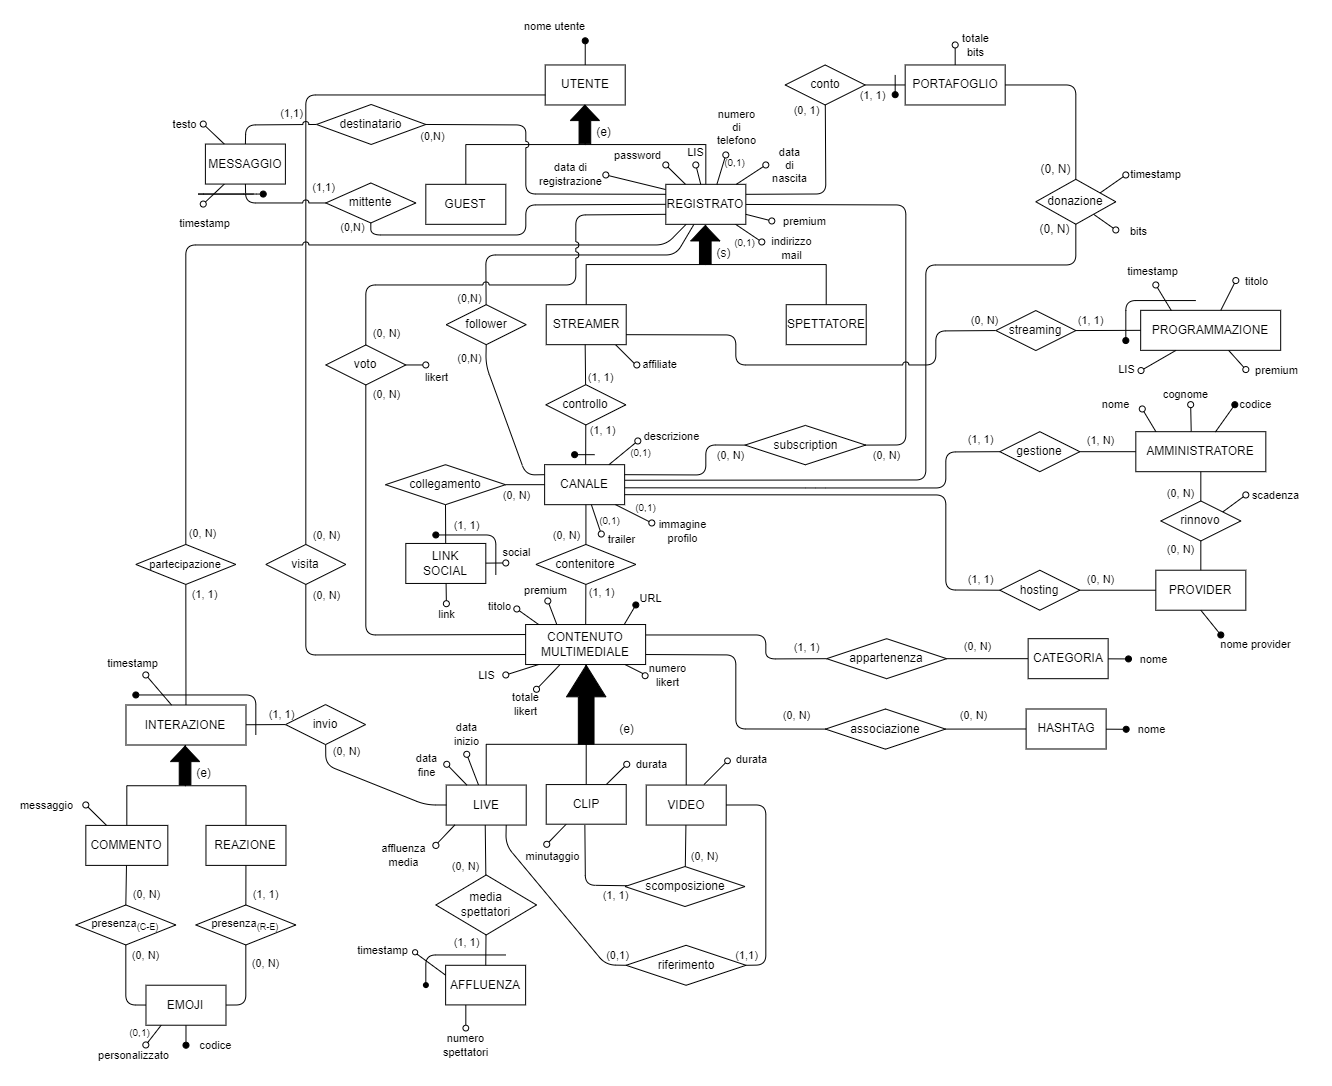
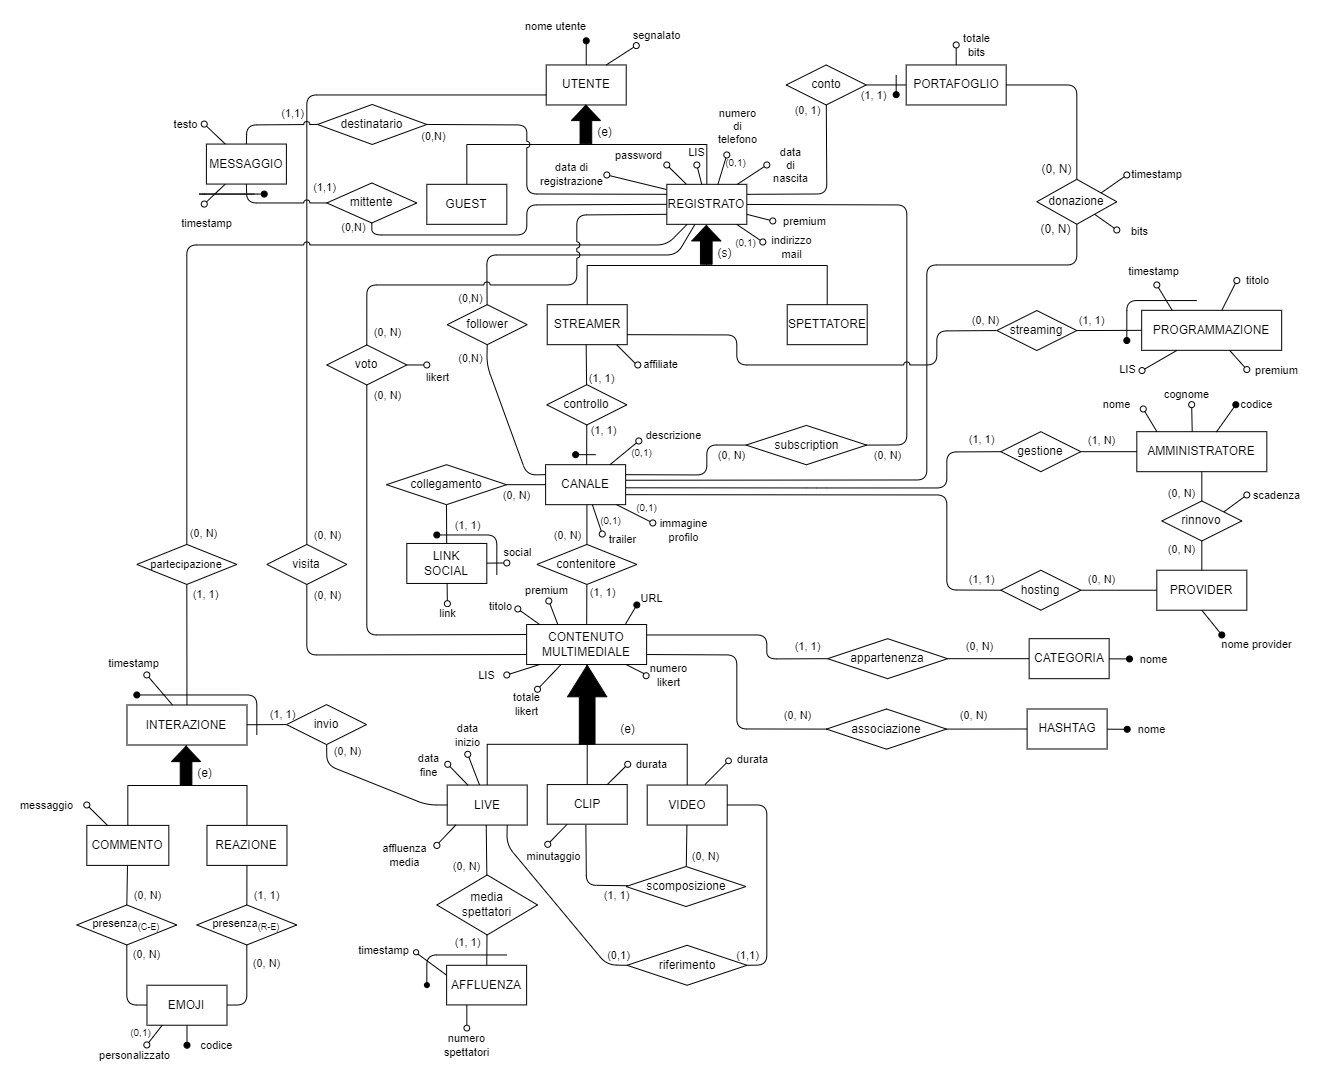
Aggiornato schemi ER + aggiornato dml pop e relativo file md

diff --git a/Progetto Esame - DBSperimentazioni A.A. 2023-2024/Markdown/4 DDL e DML.md b/Progetto Esame - DBSperimentazioni A.A. 2023-2024/Markdown/4 DDL e DML.md
@@ -7,91 +7,127 @@
 ## Sommario <!-- omit in toc -->
 
 - [3 DDL di creazione del database](#3-ddl-di-creazione-del-database)
-  - [3.1 Tabella "Utente" e "Registrato"](#31-tabella-utente-e-registrato)
+  - [3.1 Utente e Registrato](#31-utente-e-registrato)
   - [3.2 Amministratore](#32-amministratore)
   - [3.3 Rinnovo](#33-rinnovo)
   - [3.4 Programmazione](#34-programmazione)
   - [3.5 LinkSocial](#35-linksocial)
-  - [3.6 Abbonamento](#36-abbonamento)
+  - [3.6 Subscription](#36-subscription)
   - [3.7 Contenuto Multimediale](#37-contenuto-multimediale)
   - [3.8 Voto](#38-voto)
   - [3.9 Interazione](#39-interazione)
 - [4 DML di popolamento di tutte le tabelle del database](#4-dml-di-popolamento-di-tutte-le-tabelle-del-database)
+  - [4.1 Utenti registrati e streamer](#41-utenti-registrati-e-streamer)
+  - [4.2 Portafogli](#42-portafogli)
+  - [4.3 Amministratori, provider e rinnovi](#43-amministratori-provider-e-rinnovi)
+  - [4.4 Messaggi e interazioni](#44-messaggi-e-interazioni)
 - [5 DML di modifica](#5-dml-di-modifica)
 
 ## 3 DDL di creazione del database
-
+<!--
 > <qui inserite solo qualche commento su cosa avete fatto (es. spiegazione di vincoli complessi). Mettete il codice di creazione del database in un file a parte denominato VostriCognomi_DDL.sql (es. Rossi_DDL.sql)>
+-->
 
-### 3.1 Tabella "Utente" e "Registrato"
+### 3.1 Utente e Registrato
 
-La tabella "Utente" contiene solamente gli username di utenti sia guest e registrato, invece "Registrato" contiene tutte le informazioni degli utenti registrati nella piattaforma dove quelle degli utenti guest non sono necessarie.
+La tabella **_Utente_** contiene solamente gli username di tutti gli utenti sia guest che registrati e le eventuali segnalazioni agli utenti, invece **_Registrato_** contiene tutte e sole le informazioni degli utenti registrati nella piattaforma.
 
-Questa suddivisione fisica in due tabelle permette di evidenziare i permessi concessi agli utenti guest e registrati, tabella "Utente" gli é permesso visitare e osservare contenuti multimediali non-premium (una sorta di permesso di sola lettura in ambito OS), la tabella "Registrato" ha invece i permessi di scrittura di messaggi, di inviare likert, di diventare utenti premium, di abbonarsi ai singoli canali, etc... (simile al permesso di scrittura in OS).
+Questa suddivisione fisica in due tabelle permette di evidenziare i permessi concessi agli utenti guest e registrati:
 
-I check impostati a queste tabelle garantiscono che:
+- la tabella **_Utente_** possiede solamente il permesso di visitare e osservare contenuti multimediali non-premium (una sorta di permesso di sola lettura in ambito OS),
+- la tabella **_Registrato_** ha invece il permesso di scrivere messaggi, inviare likert, diventare utente premium, abbonarsi ai singoli canali, etc... (simile al permesso di scrittura in OS).
+
+I check imposti a queste tabelle garantiscono che:
 
 - l'etá minima di 13 anni come é richiesto dalla UE sia rispettata
-- l'email inserita dagli utenti registrati sia conforme al moderno formato delle e-mail 'username(+alias)@host.domain'.
-- la password per essere sufficientemente forte deve avere almeno 8 caratteri.
-- il numero di telefono deve rispettare diversi formati internazionali.
+- l'email inserita dagli utenti registrati sia conforme al moderno formato delle e-mail _'username(+alias)@host.domain'_
+- la password abbia almeno 8 caratteri, per essere sufficientemente forte
+- il numero di telefono rispetti diversi formati internazionali.
 
-Gli utenti guest, come abbiamo capito, avranno solo l'username per essere identificati, per distinguere un utente guest da quello registrato nella tabella "Utente", si nota dalla stringa che `e composto da un prefisso 'guest_' + \<integer\> (all'inizio pensavamo a una alternativa piú elegante e professionale come 'guest_' + UUID, ma risulta che bisogna attivare una estensione per il corretto funzionamento, alla fine abbiamo optato con la piú semplice SEQUENCE di interi).
+Gli utenti guest sono identificati solo dal nome utente e per distinguerli dagli utenti registrati, nella tabella **_Utente_** il loro nome utente sarà la stringa composta da un prefisso **_'guest_'_ + numero intero univoco** incrementato ogni volta mediante una SEQUENCE di interi dedicata ai guest.
 
 ### 3.2 Amministratore
 
-Il vincolo UNIQUE del set "Nome" e "Cognome" é originato semplicemente dall'evitare duplicati logici e garantire l'integrità dei dati e facilitare le operazioni di ricerca e gestione.
+Il vincolo UNIQUE del set **(_"Nome"_, _"Cognome"_)** é imposto semplicemente per evitare duplicati logici, garantire l'integrità dei dati e facilitare le operazioni di ricerca e gestione.
 
 ### 3.3 Rinnovo
 
-Dato che abbiamo impostato PRIMARY KEY al set ("Amministratore", "Provider"), ci impossibilita ad avere uno storico dei rinnovi passati, ma conterrá solamente gli ultimi rinnovi di quel specifico PRIMARY KEY set.
+Dato che abbiamo impostato come PRIMARY KEY il set **(_"Amministratore"_, _"Provider"_)**, la tabella "Rinnovo" non conterrà lo storico dei rinnovi passati, ma solamente gli ultimi rinnovi di quello specifico set _("Amministratore", "Provider")_.
 
-Se l'amministratore vuole continuare con lo stesso provider, verrá aggiornata solo la data di scadenza, altrimenti se vuole cambiare provider, verrá aggiornato il set PRIMARY KEY oltre alla data di scadenza.
+Se l'amministratore vuole continuare con lo stesso provider verrá aggiornata solo la data di scadenza, altrimenti in caso voglia cambiare provider verrá aggiornato il set PRIMARY KEY e la data di scadenza.
 
 ### 3.4 Programmazione
 
-"Programmazione" é una tabella 'parallela' alla tabella "ContenutoMultimediale" dove hanno molti attributi in comune ma vengono utilizzati in contesti diversi.
+**_Programmazione_** é una tabella "parallela" alla tabella **_ContenutoMultimediale_**, dato che hanno molti attributi in comune che vengono utilizzati però in contesti diversi.
 
 ### 3.5 LinkSocial
 
-All'attributo "LinkProfilo" della tabella "LinkSocial" ho effettuato un CHECK regex simile ai CHECK presenti nella tabella "Registrato", ma per gli indirizzi URL.
+Per l'attributo **_"LinkProfilo"_** della tabella **_LinkSocial_** abbiamo impostato un CHECK regex simile ai CHECK presenti nella tabella **_Registrato_**, ma questa volta relativo agli indirizzi URL.
 
-### 3.6 Abbonamento
+### 3.6 Subscription
 
-Qui presente il set UNIQUE proponendo le stesse meccaniche della tabella "Rinnovo".
+Il vincolo PRIMARY KEY presente in questa tabella segue gli stessi principi della PRIMARY KEY della tabella **_Rinnovo_**.
 
 ### 3.7 Contenuto Multimediale
 
-Questa é l'altra tabella 'parallela' con "Programmazione".
+Come precedentemente scritto, questa tabella è "parallela" alla tabella **_Programmazione_**.
 
-Anche qui, l'attributo "IdURL" ha un CHECK similare con quello di "LinkSocial" per validare tramite regex l'indirizzo URL, ma per motivi di semplicitá nel debug visto il contesto dell'esame universitario e il permesso del prof utilizzeremo il seguente formato piú: url1, url2, url3, ... (in generale 'url' + \<integer\> generata da una differente sequence dedicata proprio per gli url).
+Anche qui, l'attributo **_"IdURL"_** ha un CHECK simile a quello del sopracitato attributo **_"LinkSocial"_** per validare tramite regex l'indirizzo URL.  
+Per semplicitá, utilizzeremo un formato simbolico per gli URL composto dalla stringa **_'url'_ + numero intero univoco** incrementato ogni volta da una SEQUENCE di interi dedicata agli URL.
 
-L'esistenza di questa tabella é dettata dalla necessitá di semplificare la comunicazione utenti-contenuti in modo che ci sia solamente una tabella "Voto", "Interazione" e "Visita" invece che avere le stesse tabelle moltiplicate per ogni tipo di contenuto multimediale ("Live", "Video" e "Clip").
+L'esistenza di questa tabella é dettata dalla necessitá di semplificare la comunicazione utenti-contenuti in modo che ci sia solamente una singola tabella **_Voto_**, **_Interazione_** e **_Visita_** invece che avere le stesse tabelle moltiplicate per ogni tipo di contenuto multimediale (_Live_, _Video_ e _Clip_).
 
 ### 3.8 Voto
 
-In questa tabella abbiamo applicato il DOMAIN all'attributo "Likert" per assicurare che il valore sia compreso nell'intervallo tra 1 e 10, estremi compresi.
+In questa tabella abbiamo applicato un DOMAIN personalizzato all'attributo **_"Likert"_** per assicurare che il valore inserito sia compreso nell'intervallo tra 1 e 10, estremi compresi.
 
 ### 3.9 Interazione
 
-In questa tabella abbiamo applicato il DOMAIN all'attributo "Tipologia" per assicurare che il valore sia 'commento' oppure 'reazione'.
+In questa tabella abbiamo applicato un altro DOMAIN personalizzato all'attributo **_"Tipologia"_** per assicurare che il valore inserito sia _'commento'_ oppure _'reazione'_.
 
-Abbiamo incorporato dalla progettazione logica le tabelle "Commento" e "Reazione" in "Interazione" risolvendo con un attributo "Tipologia".
+Il CHECK presente in questa tabella impone che l'attributo **_"Messaggio"_** sia valorizzato solo nel caso in cui **_"Tipologia"_ = _'commento'_**.
 
 ## 4 DML di popolamento di tutte le tabelle del database
-
+<!--
 > <non è richiesto (ed è una perdita di tempo) inserire una grande quantità di dati. Una cosa sensata: le tabelle fisse andrebbero popolate tutte (se piccole), per quelle variabili e/o grandi bastano pochi elementi (5, max 10). Se popolate il database con dati verosimili potreste rendervi conto di errori commessi nella fase di progettazione concettuale e di cui avreste dovuto rendervi conto prima>
 
 > <qui inserite solo qualche commento (es. spiegazione del perché i dati da voi inseriti coprono i casi più frequenti e – possibilmente – quelli limite). Mettete il codice in un file a parte denominato VostriCognomi_DMLPOP.sql (es. Rossi_DMLPOP.sql)>
+>-->
 
-I dati inseriti ricoprono i casi più frequenti di inserimento in una basi di dati di questo tipo.
-Ci sono infatti inserimenti più frequenti per elementi cardine della piattaforma, come ad esempio l'aggiunta di un utente guest o registrato oppure l'aggiunta di un contenuto multimediale, mentre per altri elementi meno frequenti sono stai eseguiti pochi inserimenti, come ad esempio l'aggiunta di un amministratore o di un portafoglio.
-Come si può notare, molti casi limite sono stati coperti, come ad esempio l'aggiunta di un utente registrato che non è uno streamer oppure l'aggiunta di un portafoglio non per forza a tutti gli utenti registrati.
-A dimostrazione di ciò si può notare come in alcuni casi le informazioni opzionali vengano omesse oppure valorizzate tramite valori di default, per rappresentare ad esempio la mancanza di **_descrizione_** e **_trailer_** di un canale oppure le opzioni **_premium_** o **_LIS_** valorizzate di default a _false_.
-Nella fase di popolamento si è quindi cercato di inserire dati basandosi su un'applicazione realistica di questo tipo.
+I dati inseriti ricoprono i casi più frequenti di inserimento in una basi di dati di questo tipo, considerando anche molti casi limite.  
+Ci sono infatti inserimenti più frequenti per elementi cardine della piattaforma, come ad esempio l'aggiunta di un utente guest o registrato oppure l'aggiunta di un contenuto multimediale, mentre per altri elementi meno frequenti sono stai eseguiti pochi inserimenti, come ad esempio l'aggiunta di un amministratore o di un portafoglio.  
+
+### 4.1 Utenti registrati e streamer
+
+Nella tabella **_Utente_** sono stati inserite tutte le tipologie di utenti, cercando di ricreare una situazione reale: ci sono infatti utenti che sono semplicemente guest, altri che sono o streamer o spettatori e altri ancora che sono sia streamer che spettatori.
+
+Uno streamer può essere infatti spettatore quando non trasmette in streaming o crea contenuti oppure non esserlo.
+
+### 4.2 Portafogli
+
+In questa tabella sono stati inseriti i portafogli solo di alcuni utenti registrati, siccome un utente registrato non è obbligato ad avere un portafoglio e a fare donazioni agli streamer.
+
+### 4.3 Amministratori, provider e rinnovi
+
+Per simulare ancora di più una situazione realistica, sono stati inseriti pochi dati perchè si suppone che i canali scelgano servizi di hosting diversi e che non tutti i provider vengano scelti dagli amministratori delle pagine degli streamer.  
+I rinnovi inseriti sono i rinnovi correnti, con la relativa data di scadenza.  
+Sono stati inseriti anche i casi limite, ad esempio quando un amministratore gestisce più di un canale e un provider non fornisce nessun servizio di hosting oppure quando un amministratore gestisce rinnovi verso provider diversi per canali diversi.
+
+### 4.4 Messaggi e interazioni
+
+Nella tabella **_Messaggio_** sono stati inseriti i messaggi privati scambiati tra gli utenti registrati alla piattaforma e come nella realtà, non tutti gli utenti inviano o ricevono messaggi.
+
+A dimostrazione di ciò si può notare come in alcuni casi le informazioni opzionali vengano omesse oppure valorizzate tramite valori di default, per rappresentare ad esempio la mancanza di **_descrizione_** e **_trailer_** di un canale oppure le opzioni **_premium_** o **_LIS_** valorizzate di default a _false_.  
+Nella fase di popolamento si è quindi cercato di inserire dati basandosi su un'applicazione realistica di questo tipo.  
+Si può notare inoltre la presenza di contentui multimediali riservati agli utenti premium oppure di emoji personalizate per un canale, utilizzabili solo dagli utenti abbonati ad esso: questo per rispettare i privilegi concessi agli abbonati al canale o alla piattaforma, garantendo una separazione dei contenuti pubblici da quelli privati.  
+Sempre nei contenuti multimediali, sono stati inseriti in maniera il più possibile realistica: ci sono infatti live che non sono diventate video del canale e video che non sono stati divisi in clip. Inoltre ci sono live che non sono diventate video pubblici ma solo premium e clip di video pubblici che sono riservati agli utenti premium.  
+Anche visite, interazioni e voti sono stati inseriti in modo realistico, ovvero si può notare come non utti gli utenti visitano contenuti e non tutti i viewer votano i contenuti visualizzati, mentre non tutti gli spettatori interagiscono con commenti o reazioni.  
 
 ## 5 DML di modifica
-
+<!--
 > <soltanto qualche modifica del DB che rispecchi le operazioni più frequenti (es. aggiunta di un utente)>
 >
 > <qui inserite solo qualche commento (es. quali operazioni del file corrispondono a quali operazioni della tabella delle operazioni). Mettete il codice in un file a parte denominato VostriCognomi_DMLUPD.sql (es. Rossi_DMLUPD.sql)>
+-->
+
+Le operazioni sono state gestiste attraverso delle viste per semplificare la manipolazione di dati.

diff --git a/Progetto Esame - DBSperimentazioni A.A. 2023-2024/Markdown/3 Schema progettazione logica.md b/Progetto Esame - DBSperimentazioni A.A. 2023-2024/Markdown/3 Schema progettazione logica.md
@@ -592,7 +592,7 @@ Unica eccezione a questa decisione risulta essere l'entità `CONTENUTO MULTIMEDI
 > <Relazione3 (Identificatore, Attributo1, …)>
 -->
 
-Utente(<U>NomeUtente</U>)
+Utente(<U>NomeUtente</U>, Segnalato)
 
 Registrato(<U>Username</U>, UserPassword, DataDiNascita, DataRegistrazione, NumeroDiTelefono*, IndirizzoMail*, Affiliate*, Premium, LIS)
 > Registrato(Username) referenzia Utente(NomeUtente)
